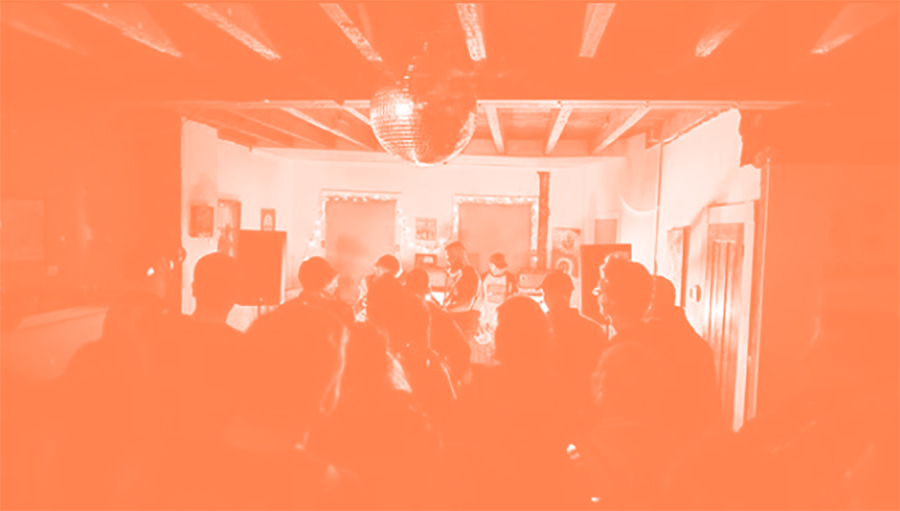
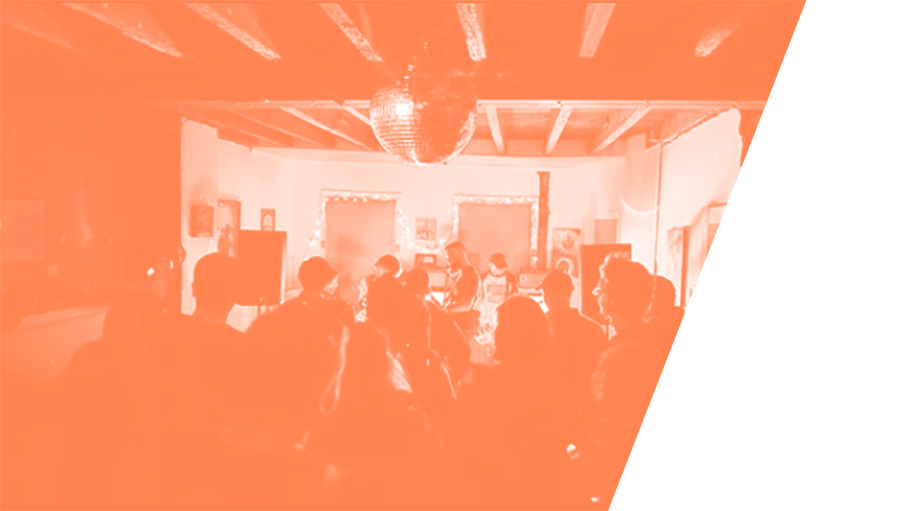
Edited mobile styles. Homepage hero image edits

Changed region(s): [[0.6533, 0.0, 1.0, 1.0]]

diff --git a/index.html b/index.html
@@ -15,7 +15,7 @@
   <body>
     <!--Navigation-->
     <div class="container">
-      <nav class="navbar navbar-expand-lg">
+      <nav class="navbar navbar-light navbar-expand-lg">
         <button class="navbar-toggler" type="button" data-toggle="collapse" data-target="#navbarNav" aria-controls="navbarNav" aria-expanded="false" aria-label="Toggle navigation">
           <span class="navbar-toggler-icon"></span>
         </button>
@@ -41,9 +41,9 @@
     </div>
     <!--Hero image-->
     <div class="container">
-      <div class="jumbotron rounded-0">
-        <h1 class="display-4 text-right">Brightside<br> Booking</h1>
-        <p class="lead text-right prestige">Making Lancaster, PA<br>brighter since 2018.</p>
+      <div class="jumbotron rounded-0"><!--NBSP below is pretty broken. Figure out a better way to do this.-->
+        <h1 class="display-4 text-right"><span class="white">Brightside&nbsp;<br>&nbsp;Booking</span></h1>
+        <p class="lead text-right prestige"><span class="white">Making Lancaster, PA&nbsp;&nbsp;<br>brighter since 2018.</span></p>
       </div>
     </div>
     <!--Upcoming Show-->
@@ -53,7 +53,7 @@
         <div class="col-12 col-md-5">
           <img src="img/fliertest.jpg" class="img-fluid flier" alt="Upcoming Show Flier">
         </div>
-        <div class="col-12 col-md-7">
+        <div class="col-12 col-md-7 table-container">
           <table class="table table-borderless ml-5">
             <tbody>
               <tr>
@@ -88,7 +88,7 @@
                 <td class="prestige">All ages show. 21+ BYOB.</td>
             </tbody>
           </table>
-          <a href="#"><button type="button" class="btn btn-primary btn-lg ml-5">Get Tickets</a>
+          <a href="#"><button type="button" class="btn btn-primary btn-lg ml-md-5 ticket-btn">Get Tickets</a>
         </div>
       </div>
     </div>
@@ -96,28 +96,28 @@
     <!--Schedule-->
     <div id="home-schedule" class="container">
       <div class="row"><!--The group that is NOT in the grey area-->
-        <div class="col-9">
+        <div class="col-12 col-md-9">
           <h2>Upcoming Shows</h2>
         </div>
-        <div class="col-3">
-          <a class="float-right schedule-link" href="schedule.html">View full schedule</a>
+        <div class="col-12 col-md-3">
+          <a class="schedule-link" href="schedule.html"><p>View full schedule</p></a>
         </div>
       </div>
       <div id="home-schedule-grey" class="row"><!--Container for grey area-->
         <div class="col"><!--Everything within the grey area-->
 
-          <div class="row show-item"><!--First Show Item-->
+          <div class="row show-item"><!--First show Item-->
             <div class="col"><!--Container for First show Item-->
               <div class="row"><!--Container for All show information & buttons-->
-                <div class="col-9"><!--Show info col-->
+                <div class="col-12 col-lg-9 col-md-8"><!--Show info col-->
                   <div class="row show-date-location"><!--Date and location-->
-                    <div class="col-1 show-day">
+                    <div class="col-2 col-lg-1 show-day">
                       FRI
                     </div>
-                    <div class="col-3 show-date">
+                    <div class="col-5 col-sm-3 show-date">
                       June 15
                     </div>
-                    <div class="col">
+                    <div class="col-12 col-sm-6">
                       Moira Records
                     </div>
                   </div>
@@ -127,28 +127,28 @@
                     </div>
                   </div>
                 </div><!--End Show info col-->
-                <div class="col-3 schedule-buttons"><!--Button col-->
-                  <div class="float-right align-middle">
-                    <button class="btn-outline-primary align-middle">Tickets</button>
-                    <button class="btn-outline-primary align-middle">RSVP</button>
+                <div class="col-12 col-md-4 col-lg-3"><!--Button col-->
+                  <div class="schedule-buttons">
+                    <button class="btn-outline-primary">Tickets</button>
+                    <button class="btn-outline-primary">RSVP</button>
                   </div>
                 </div><!--End Button col-->
               </div><!--End Containter for all show information & buttons-->
             </div>
-          </div><!--End first show item-->
+          </div><!--End First show item-->
 
-          <div class="row show-item"><!--Second Show Item-->
+          <div class="row show-item"><!--Second show Item-->
             <div class="col"><!--Container for First show Item-->
               <div class="row"><!--Container for All show information & buttons-->
-                <div class="col-9"><!--Show info col-->
+                <div class="col-12 col-lg-9 col-md-8"><!--Show info col-->
                   <div class="row show-date-location"><!--Date and location-->
-                    <div class="col-1 show-day">
+                    <div class="col-2 col-lg-1 show-day">
                       FRI
                     </div>
-                    <div class="col-3 show-date">
+                    <div class="col-5 col-sm-3 show-date">
                       June 15
                     </div>
-                    <div class="col">
+                    <div class="col-12 col-sm-6">
                       Moira Records
                     </div>
                   </div>
@@ -158,8 +158,8 @@
                     </div>
                   </div>
                 </div><!--End Show info col-->
-                <div class="col-3 schedule-buttons"><!--Button col-->
-                  <div class="float-right">
+                <div class="col-12 col-md-4 col-lg-3"><!--Button col-->
+                  <div class="schedule-buttons">
                     <button class="btn-outline-primary">Tickets</button>
                     <button class="btn-outline-primary">RSVP</button>
                   </div>
@@ -173,13 +173,13 @@
               <div class="row"><!--Container for All show information & buttons-->
                 <div class="col-12 col-lg-9 col-md-8"><!--Show info col-->
                   <div class="row show-date-location"><!--Date and location-->
-                    <div class="col-1 show-day">
+                    <div class="col-2 col-lg-1 show-day">
                       FRI
                     </div>
-                    <div class="col-3 show-date">
+                    <div class="col-5 col-sm-3 show-date">
                       June 15
                     </div>
-                    <div class="col">
+                    <div class="col-12 col-sm-6">
                       Moira Records
                     </div>
                   </div>
@@ -189,8 +189,8 @@
                     </div>
                   </div>
                 </div><!--End Show info col-->
-                <div class="col-12 col-md-4 col-lg-3 schedule-buttons"><!--Button col-->
-                  <div class="float-right">
+                <div class="col-12 col-md-4 col-lg-3"><!--Button col-->
+                  <div class="schedule-buttons">
                     <button class="btn-outline-primary">Tickets</button>
                     <button class="btn-outline-primary">RSVP</button>
                   </div>
@@ -199,18 +199,18 @@
             </div>
           </div><!--End third show item-->
 
-          <div class="row show-item-last"><!--Fourth Show Item-->
+          <div class="row show-item-last"><!--Last show Item-->
             <div class="col"><!--Container for First show Item-->
               <div class="row"><!--Container for All show information & buttons-->
-                <div class="col-9"><!--Show info col-->
+                <div class="col-12 col-lg-9 col-md-8"><!--Show info col-->
                   <div class="row show-date-location"><!--Date and location-->
-                    <div class="col-1 show-day">
+                    <div class="col-2 col-lg-1 show-day">
                       FRI
                     </div>
-                    <div class="col-3 show-date">
+                    <div class="col-5 col-sm-3 show-date">
                       June 15
                     </div>
-                    <div class="col show-location">
+                    <div class="col-12 col-sm-6">
                       Moira Records
                     </div>
                   </div>
@@ -220,15 +220,15 @@
                     </div>
                   </div>
                 </div><!--End Show info col-->
-                <div class="col-3 schedule-buttons ml-auto"><!--Button col-->
-                  <div class="button-container">
+                <div class="col-12 col-md-4 col-lg-3"><!--Button col-->
+                  <div class="schedule-buttons">
                     <button class="btn-outline-primary">Tickets</button>
                     <button class="btn-outline-primary">RSVP</button>
                   </div>
                 </div><!--End Button col-->
               </div><!--End Containter for all show information & buttons-->
             </div>
-          </div><!--End fourth show item-->
+          </div><!--End Last show item-->
 
         </div><!--Closing Grey Area-->
       </div><!--Closing Grey area row-->

diff --git a/css/styles.css b/css/styles.css
@@ -26,7 +26,7 @@ h2{
 }
 
 .nav-link{
-  color: #ff530d;
+  color: #ff530d!important;
   padding-top:1em;
   padding-bottom:1em;
 }
@@ -42,7 +42,7 @@ h2{
 }
 
 #nav-cta a{
-  color:white;
+  color:white!important;
 }
 
 #nav-cta:hover{
@@ -60,6 +60,8 @@ h2{
 
 .jumbotron{
   background-image: url("../img/hero.jpg");
+  background-repeat: no-repeat;
+  background-color:white;
   margin:0;
 }
 
@@ -67,9 +69,19 @@ h2{
   font-family:nimbus-sans,Helvetica, sans-serif;
   font-weight:900;
   font-size: 6rem;
-  line-height:.9;
+  line-height:1;
   text-transform:uppercase;
   color:#ff530d;
+}
+
+.lead{
+  color:#ff530d;
+}
+.white{
+  background-color:white;
+  padding-top:5px;
+  padding-left:25px;
+  padding-right:25px;
 }
 
 #next-show{
@@ -96,6 +108,8 @@ th{
 td{
   font-size:15pt;
 }
+
+/* Button styles */
 
 .btn-primary{
   background-color:#e90253;
@@ -128,6 +142,16 @@ td{
   color: #e90253;
 }
 
+.ticket-btn{
+  width:200px;
+  height: 50px;
+  font-weight:bold;
+  margin-top:40px;
+}
+
+/* End button styles */
+
+
 #home-schedule{
   margin-top:50px;
 }
@@ -150,6 +174,7 @@ td{
   font-family:prestige-elite-std,monospace;
   text-decoration:underline;
   color:#e90253;
+  float:right;
 }
 .schedule-link:hover{
 color:#c40045;
@@ -185,6 +210,10 @@ color:#c40045;
   font-weight;400;
 }
 
+.schedule-buttons{
+  float:right;
+}
+
 .schedule-buttons button{
   padding:5px 15px;
 }
@@ -211,4 +240,85 @@ color:#c40045;
 
 .button-container{
   float:right;
+}
+
+@media(max-width:767px){
+
+  .table-container{
+    margin-top:1.4em;
+  }
+  .table-container table{
+    margin-left:0px!important;
+  }
+
+  .schedule-link{
+    margin-top:0px;
+    margin-right:auto;
+    margin-left:auto;
+    float:none;
+    text-align:center;
+  }
+
+  h2{
+    text-align:center;
+    margin-left:0px;
+  }
+
+  .ticket-btn{
+    display:block;
+    margin-left:auto;
+    margin-right:auto;
+    text-align:center;
+    width:100%;
+    height:4rem;
+
+  }
+
+  .schedule-buttons{
+    float:none;
+    text-align:center;
+  }
+
+  .schedule-buttons button{
+    width:40%;
+    margin-top:1rem;
+    margin-bottom:1rem;
+  }
+
+  .jumbotron h1{
+    font-size: 3rem;
+    margin-top:.7em;
+  }
+
+  h2{
+    font-size:2em;
+  }
+
+  .navbar-collapse{
+    margin-bottom:5px;
+  }
+
+  .nav-item{
+    font-size:1.5em;
+    text-align:center;
+  }
+
+  .nav-link{
+    padding-top:.5em;
+    padding-bottom:.5em;
+  }
+
+  .navbar{
+      margin-top:10px;
+      margin-bottom:10px;
+  }
+
+  #nav-cta{
+    background-color:white!important;
+  }
+
+  #nav-cta a{
+    color:#ff530d!important;
+  }
+
 }
